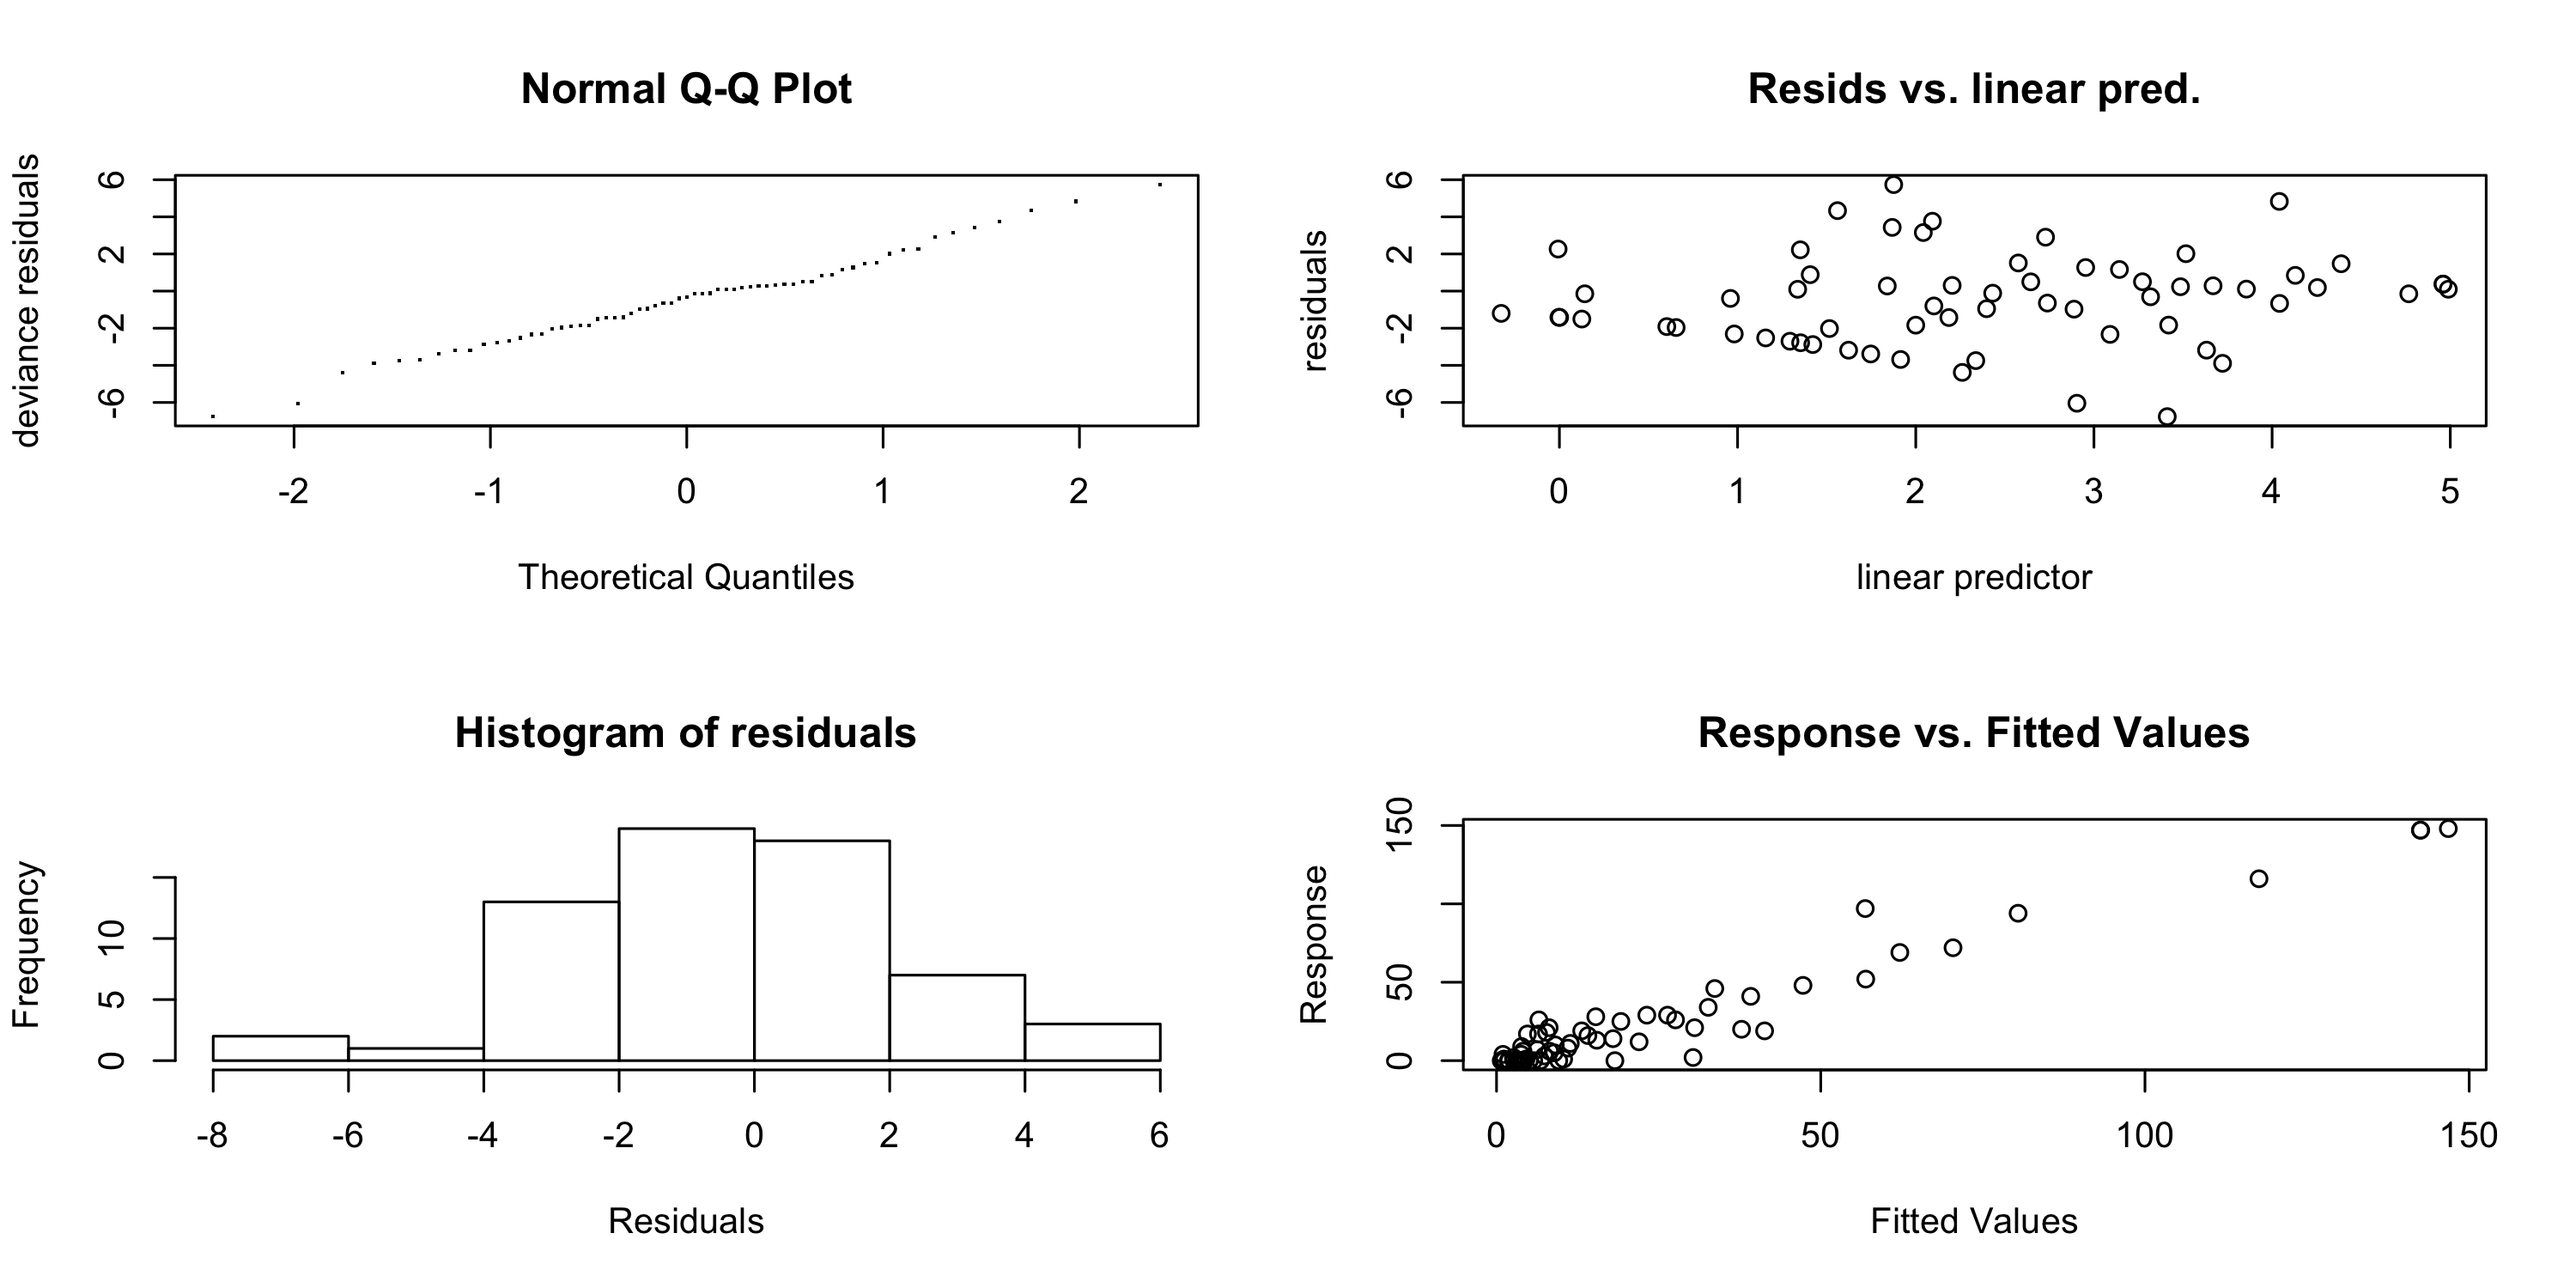
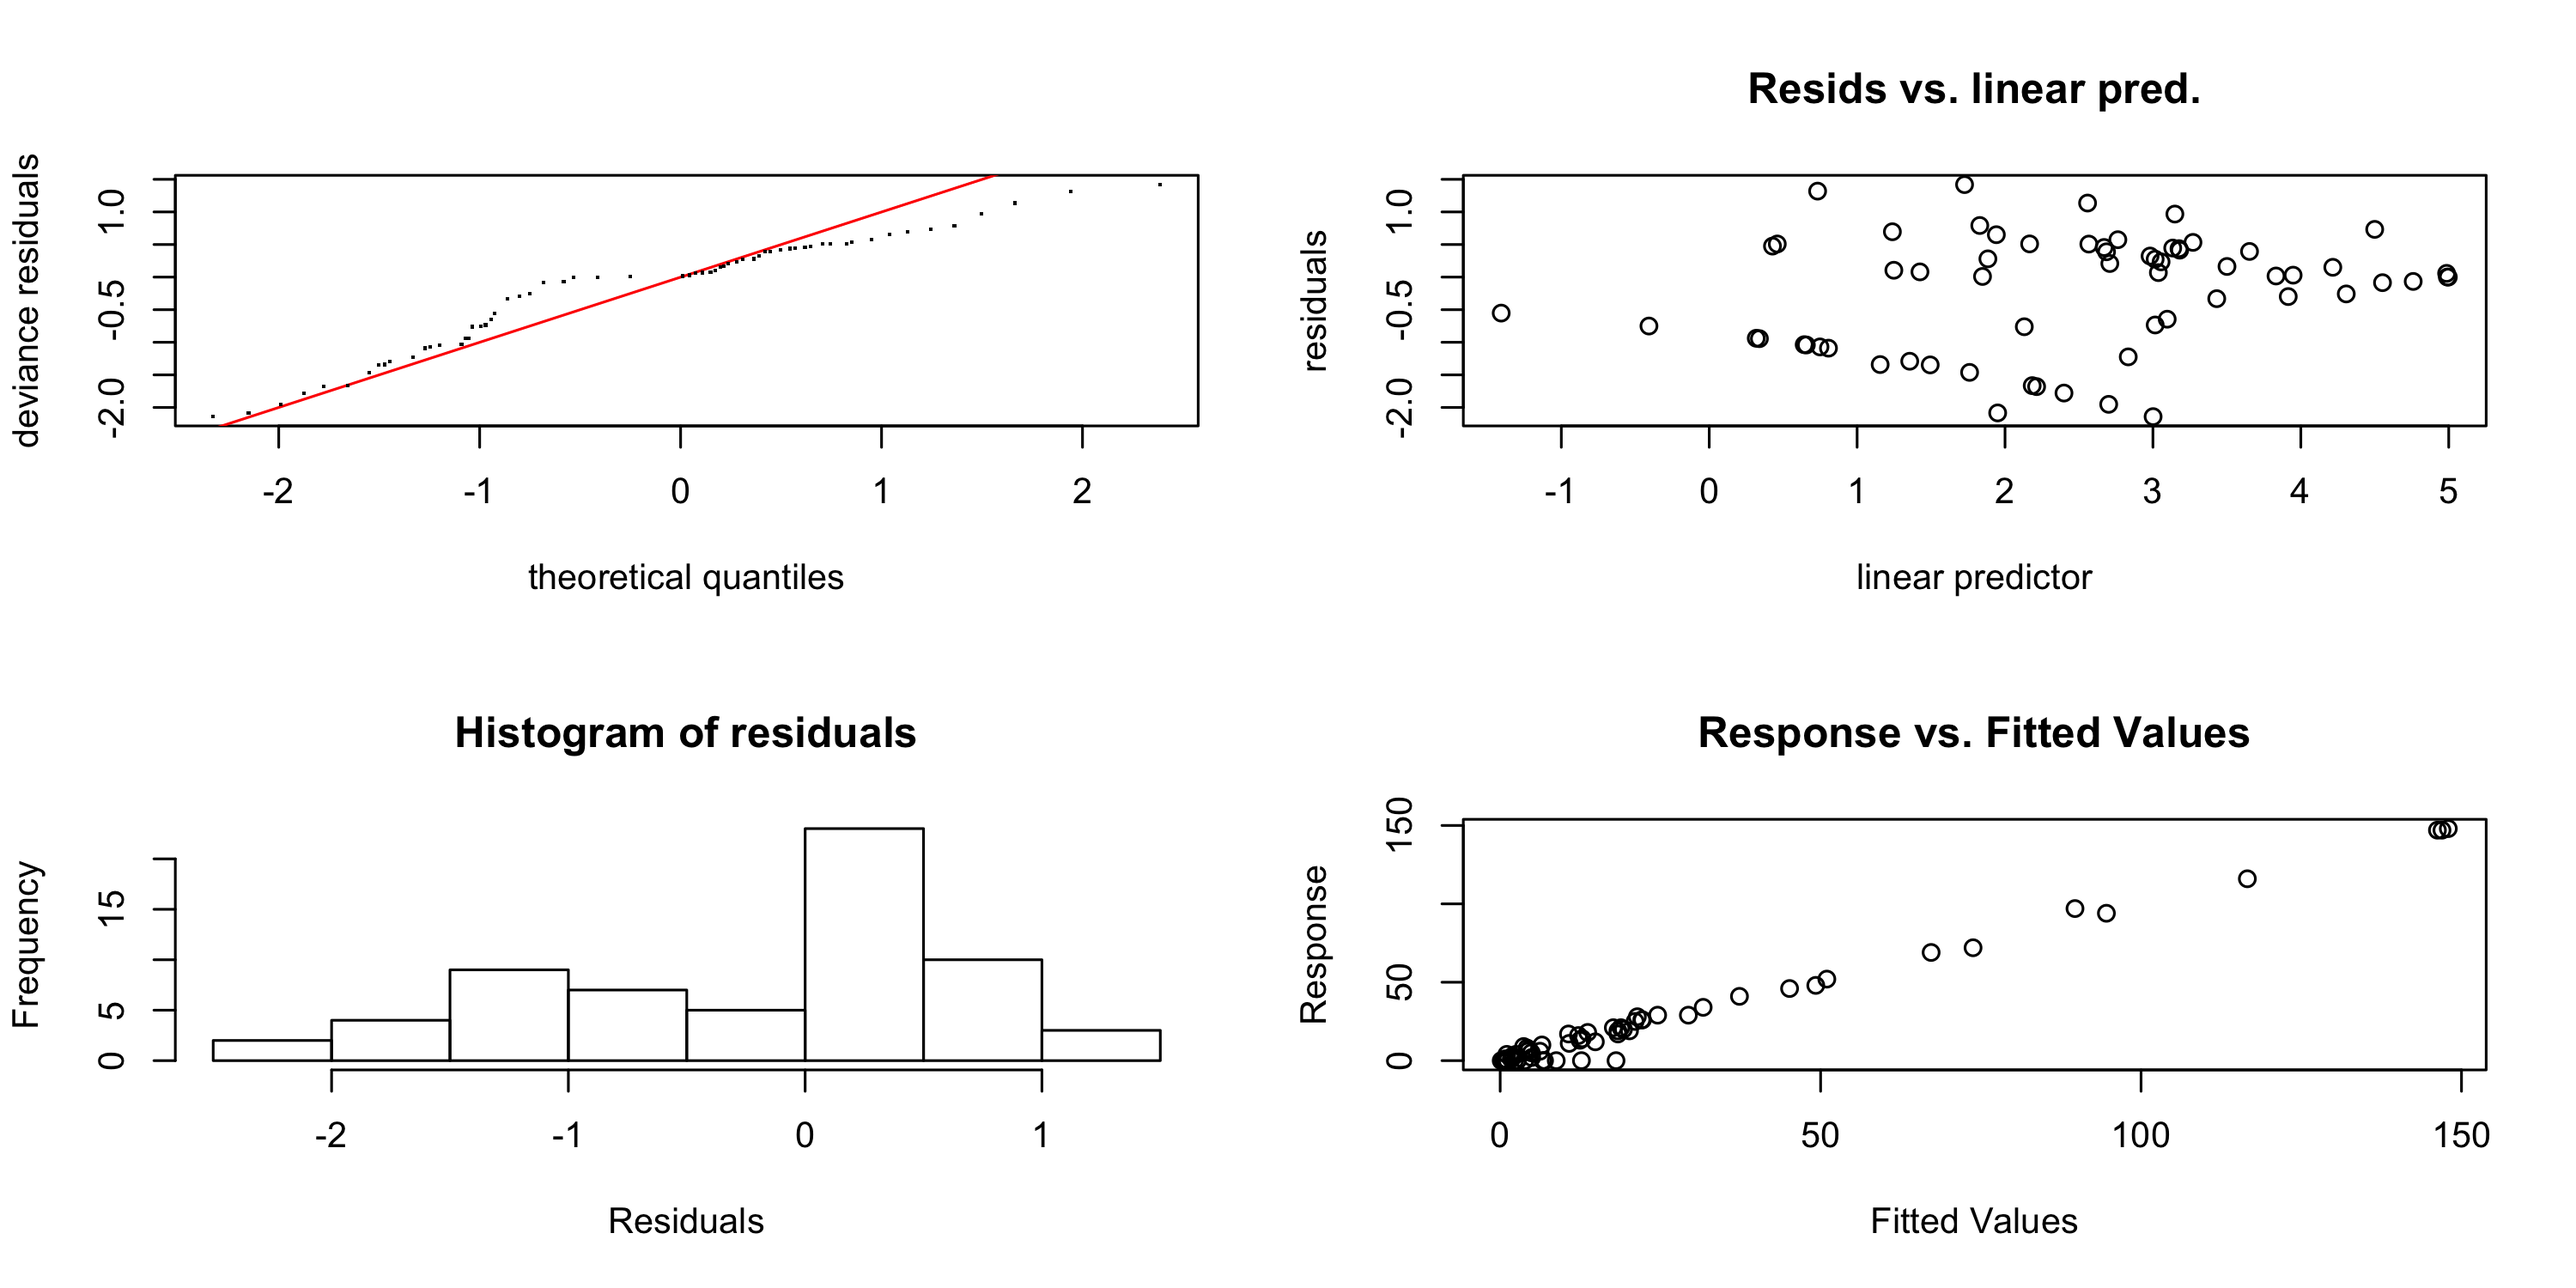
GAM with ziP family

diff --git a/01-country-analysis.md b/01-country-analysis.md
@@ -7,83 +7,87 @@ emmamendelsohn
 
 ![](01-country-analysis_files/figure-gfm/r%20plots-1.png)<!-- -->![](01-country-analysis_files/figure-gfm/r%20plots-2.png)<!-- -->
 
-—————–Fit GAM—————–
+—————–Fit GAM—————– using ziP family- for zero inflated Poisson data,
+when the zero inflation rate depends simply on the Poisson mean. From
+mgcv: This sort of model is really only appropriate when none of your
+covariates help to explain the zeroes in your data. If your covariates
+predict which observations are likely to have zero mean then adding a
+zero inflated model on top of this is likely to lead to identifiability
+problems. Identifiability problems may lead to fit failures, or absurd
+values for the linear predictor or predicted values.
+
+    ## [1] "full convergence"
 
     ## 
-    ## Family: quasipoisson 
-    ## Link function: log 
+    ## Family: Zero inflated Poisson(-1.016,0.615) 
+    ## Link function: identity 
     ## 
     ## Formula:
-    ## n_amr_events ~ s(gdp_billion_log, k = 4) + s(population_log, 
-    ##     k = 10) + s(migrant_pop_perc, k = 3) + s(health_expend_perc, 
-    ##     k = 10) + s(ab_export_perc, k = 3) + s(pubs_sum, k = 10) + 
-    ##     s(ab_consumption_ddd, k = 10) + s(ag_land_perc, k = 10) + 
-    ##     s(manure_soils_kg_per_km2, k = 3) + english_spoken
+    ## n_amr_events ~ s(gdp_billion_log) + s(population_log) + s(pubs_sum) + 
+    ##     s(migrant_pop_perc, k = 5) + s(health_expend_perc) + s(ab_export_perc, 
+    ##     k = 5) + s(ab_consumption_ddd) + s(ag_land_perc, k = 5) + 
+    ##     s(manure_soils_kg_per_km2, k = 5) + english_spoken
     ## 
     ## Parametric coefficients:
-    ##                    Estimate Std. Error t value Pr(>|t|)    
-    ## (Intercept)          2.3270     0.1562  14.896   <2e-16 ***
-    ## english_spokenTRUE   0.3048     0.2554   1.194    0.239    
+    ##                    Estimate Std. Error z value Pr(>|z|)    
+    ## (Intercept)         2.41457    0.07606  31.746   <2e-16 ***
+    ## english_spokenTRUE  0.12162    0.16610   0.732    0.464    
     ## ---
     ## Signif. codes:  0 '***' 0.001 '**' 0.01 '*' 0.05 '.' 0.1 ' ' 1
     ## 
     ## Approximate significance of smooth terms:
-    ##                              edf Ref.df      F  p-value    
-    ## s(gdp_billion_log)         1.000  1.000  0.490 0.487466    
-    ## s(population_log)          2.655  3.235  6.505 0.000709 ***
-    ## s(migrant_pop_perc)        1.000  1.000  0.541 0.465965    
-    ## s(health_expend_perc)      2.748  3.469  4.859 0.003692 ** 
-    ## s(ab_export_perc)          1.000  1.000  1.614 0.210272    
-    ## s(pubs_sum)                1.000  1.000  1.025 0.316751    
-    ## s(ab_consumption_ddd)      1.599  1.980 11.348 0.000155 ***
-    ## s(ag_land_perc)            3.509  4.274  3.955 0.006450 ** 
-    ## s(manure_soils_kg_per_km2) 1.000  1.000  0.249 0.620216    
+    ##                              edf Ref.df Chi.sq  p-value    
+    ## s(gdp_billion_log)         1.000  1.000  6.005   0.0143 *  
+    ## s(population_log)          6.998  7.907 86.316 2.82e-15 ***
+    ## s(pubs_sum)                5.437  6.100 28.194 9.49e-05 ***
+    ## s(migrant_pop_perc)        1.000  1.000  0.081   0.7765    
+    ## s(health_expend_perc)      6.972  7.633 81.913 1.10e-14 ***
+    ## s(ab_export_perc)          1.000  1.000  1.116   0.2907    
+    ## s(ab_consumption_ddd)      2.219  2.717 31.400 2.38e-05 ***
+    ## s(ag_land_perc)            3.813  3.951 35.367 2.09e-07 ***
+    ## s(manure_soils_kg_per_km2) 3.885  3.969 39.231 5.70e-08 ***
     ## ---
     ## Signif. codes:  0 '***' 0.001 '**' 0.01 '*' 0.05 '.' 0.1 ' ' 1
     ## 
-    ## R-sq.(adj) =  0.908   Deviance explained = 85.3%
-    ## -REML = 115.13  Scale est. = 8.3472    n = 63
+    ## Deviance explained = 99.3%
+    ## -REML = 229.43  Scale est. = 1         n = 63
 
-    ##               para s(gdp_billion_log) s(population_log)
-    ## worst    0.8646279          0.9927685         0.9939882
-    ## observed 0.8646279          0.9848385         0.9750414
-    ## estimate 0.8646279          0.9869881         0.9398782
+    ##               para s(gdp_billion_log) s(population_log) s(pubs_sum)
+    ## worst    0.9999543          1.0000000         0.9999999   1.0000000
+    ## observed 0.9999543          0.9895073         0.9669500   0.9948870
+    ## estimate 0.9999543          0.9865408         0.9791193   0.9990749
     ##          s(migrant_pop_perc) s(health_expend_perc) s(ab_export_perc)
-    ## worst              0.9133507             0.9999752         0.8931092
-    ## observed           0.9024449             0.9381688         0.8924536
-    ## estimate           0.9003194             0.9364886         0.8905195
-    ##          s(pubs_sum) s(ab_consumption_ddd) s(ag_land_perc)
-    ## worst      0.9999758             0.9752864       0.9647925
-    ## observed   0.9935137             0.7915560       0.7208799
-    ## estimate   0.9966077             0.7501272       0.7158863
-    ##          s(manure_soils_kg_per_km2)
-    ## worst                     0.9355783
-    ## observed                  0.8413939
-    ## estimate                  0.8434514
+    ## worst              0.9999996             1.0000000         0.9999997
+    ## observed           0.9537991             0.9658247         0.9415446
+    ## estimate           0.9382690             0.9645454         0.9440537
+    ##          s(ab_consumption_ddd) s(ag_land_perc) s(manure_soils_kg_per_km2)
+    ## worst                0.9999994       0.9999944                  0.9999986
+    ## observed             0.8708048       0.9168492                  0.9278401
+    ## estimate             0.8944577       0.9834974                  0.9664509
 
 ![](01-country-analysis_files/figure-gfm/r%20mod-gam-1.png)<!-- -->
 
     ## 
     ## Method: REML   Optimizer: outer newton
-    ## full convergence after 9 iterations.
-    ## Gradient range [-1.085192e-05,8.757071e-06]
-    ## (score 115.127 & scale 8.347167).
-    ## Hessian positive definite, eigenvalue range [4.702e-07,26.11237].
-    ## Model rank =  56 / 56 
+    ## full convergence after 16 iterations.
+    ## Gradient range [-7.595193e-05,2.043814e-05]
+    ## (score 229.4294 & scale 1).
+    ## Hessian positive definite, eigenvalue range [1.598647e-06,73.585].
+    ## Model rank =  63 / 63 
     ## 
     ## Basis dimension (k) checking results. Low p-value (k-index<1) may
     ## indicate that k is too low, especially if edf is close to k'.
     ## 
-    ##                              k'  edf k-index p-value  
-    ## s(gdp_billion_log)         3.00 1.00    0.80   0.060 .
-    ## s(population_log)          9.00 2.66    0.92   0.370  
-    ## s(migrant_pop_perc)        2.00 1.00    1.04   0.685  
-    ## s(health_expend_perc)      9.00 2.75    1.01   0.640  
-    ## s(ab_export_perc)          2.00 1.00    0.81   0.060 .
-    ## s(pubs_sum)                9.00 1.00    0.81   0.085 .
-    ## s(ab_consumption_ddd)      9.00 1.60    1.11   0.835  
-    ## s(ag_land_perc)            9.00 3.51    0.92   0.335  
-    ## s(manure_soils_kg_per_km2) 2.00 1.00    1.07   0.760  
+    ##                              k'  edf k-index p-value   
+    ## s(gdp_billion_log)         9.00 1.00    0.72   0.030 * 
+    ## s(population_log)          9.00 7.00    1.14   0.930   
+    ## s(pubs_sum)                9.00 5.44    0.65   0.005 **
+    ## s(migrant_pop_perc)        4.00 1.00    1.09   0.860   
+    ## s(health_expend_perc)      9.00 6.97    0.86   0.215   
+    ## s(ab_export_perc)          4.00 1.00    1.06   0.800   
+    ## s(ab_consumption_ddd)      9.00 2.22    1.22   1.000   
+    ## s(ag_land_perc)            4.00 3.81    0.80   0.095 . 
+    ## s(manure_soils_kg_per_km2) 4.00 3.89    0.88   0.255   
     ## ---
     ## Signif. codes:  0 '***' 0.001 '**' 0.01 '*' 0.05 '.' 0.1 ' ' 1
 
@@ -125,39 +129,28 @@ emmamendelsohn
     ## iteration: 800 (of 1000)
     ## iteration: 900 (of 1000)
     ## iteration: 1000 (of 1000)
-    ## total seconds in loop: 1.206430
+    ## total seconds in loop: 0.893443
     ## 
     ## Tree sizes, last iteration:
-    ## [1] 2 2 2 3 2 2 2 2 2 3 2 2 2 4 2 3 1 3 
-    ## 2 3 3 2 2 2 2 3 1 1 3 2 4 2 2 2 2 2 2 2 
-    ## 3 3 3 2 2 3 1 3 2 2 3 2 1 5 2 2 2 3 2 2 
-    ## 2 3 2 5 2 2 3 3 2 2 3 2 2 2 2 2 3 2 3 4 
-    ## 2 2 3 4 2 2 2 2 2 1 2 3 2 3 4 3 2 3 2 2 
-    ## 1 2 2 3 2 2 3 2 2 2 2 2 2 2 3 3 2 2 3 4 
-    ## 2 2 2 3 2 3 3 2 2 2 3 2 2 2 2 3 2 2 2 3 
-    ## 2 2 2 2 2 1 3 2 2 2 1 1 2 2 2 2 2 2 2 2 
-    ## 2 2 2 2 3 2 2 3 2 2 2 3 2 3 2 1 3 2 2 4 
-    ## 1 2 1 2 2 2 1 2 2 3 2 2 3 3 2 2 3 2 3 2 
-    ## 2 2 
+    ## [1] 2 2 2 2 2 2 2 1 2 3 2 2 2 3 2 3 2 2 
+    ## 2 2 4 2 2 3 2 1 3 2 2 2 2 3 2 2 2 2 3 2 
+    ## 2 2 2 2 3 3 2 2 3 2 2 3 2 2 3 2 2 2 3 2 
+    ## 2 2 3 2 2 2 3 2 2 3 2 2 2 2 3 3 2 3 2 2 
+    ## 4 2 2 5 3 2 2 2 2 3 2 2 2 3 2 2 2 2 2 2 
+    ## 2 2 3 4 2 2 2 1 3 2 2 2 2 2 2 2 3 2 4 4 
+    ## 1 2 2 2 2 2 2 2 2 2 2 2 3 3 2 1 2 2 3 2 
+    ## 2 3 2 3 2 4 2 2 3 3 2 2 2 2 2 2 2 2 3 2 
+    ## 3 3 2 2 2 2 2 2 2 2 1 2 2 2 2 2 2 2 3 3 
+    ## 2 2 2 4 2 2 2 2 2 2 2 2 2 2 3 3 2 2 2 2 
+    ## 2 1 
     ## 
     ## Variable Usage, last iteration (var:count):
-    ## (1: 18) (2: 31) (3: 32) (4: 23) (5: 29) 
-    ## (6: 36) (7: 17) (8: 26) (9: 24) (10: 18) 
+    ## (1: 24) (2: 27) (3: 26) (4: 30) (5: 18) 
+    ## (6: 30) (7: 28) (8: 20) (9: 22) (10: 24) 
     ## 
     ## DONE BART
 
 —————–Compare models—————–
-
-    ## # A tibble: 2 x 2
-    ##   model mean_residuals
-    ##   <chr>          <dbl>
-    ## 1 bart            9.18
-    ## 2 gam             6.37
-
-    ##              n_amr_events       gam      bart
-    ## n_amr_events    1.0000000 0.9660339 0.9554191
-    ## gam             0.9660339 1.0000000 0.9806920
-    ## bart            0.9554191 0.9806920 1.0000000
 
 —————–Residuals—————–
 
